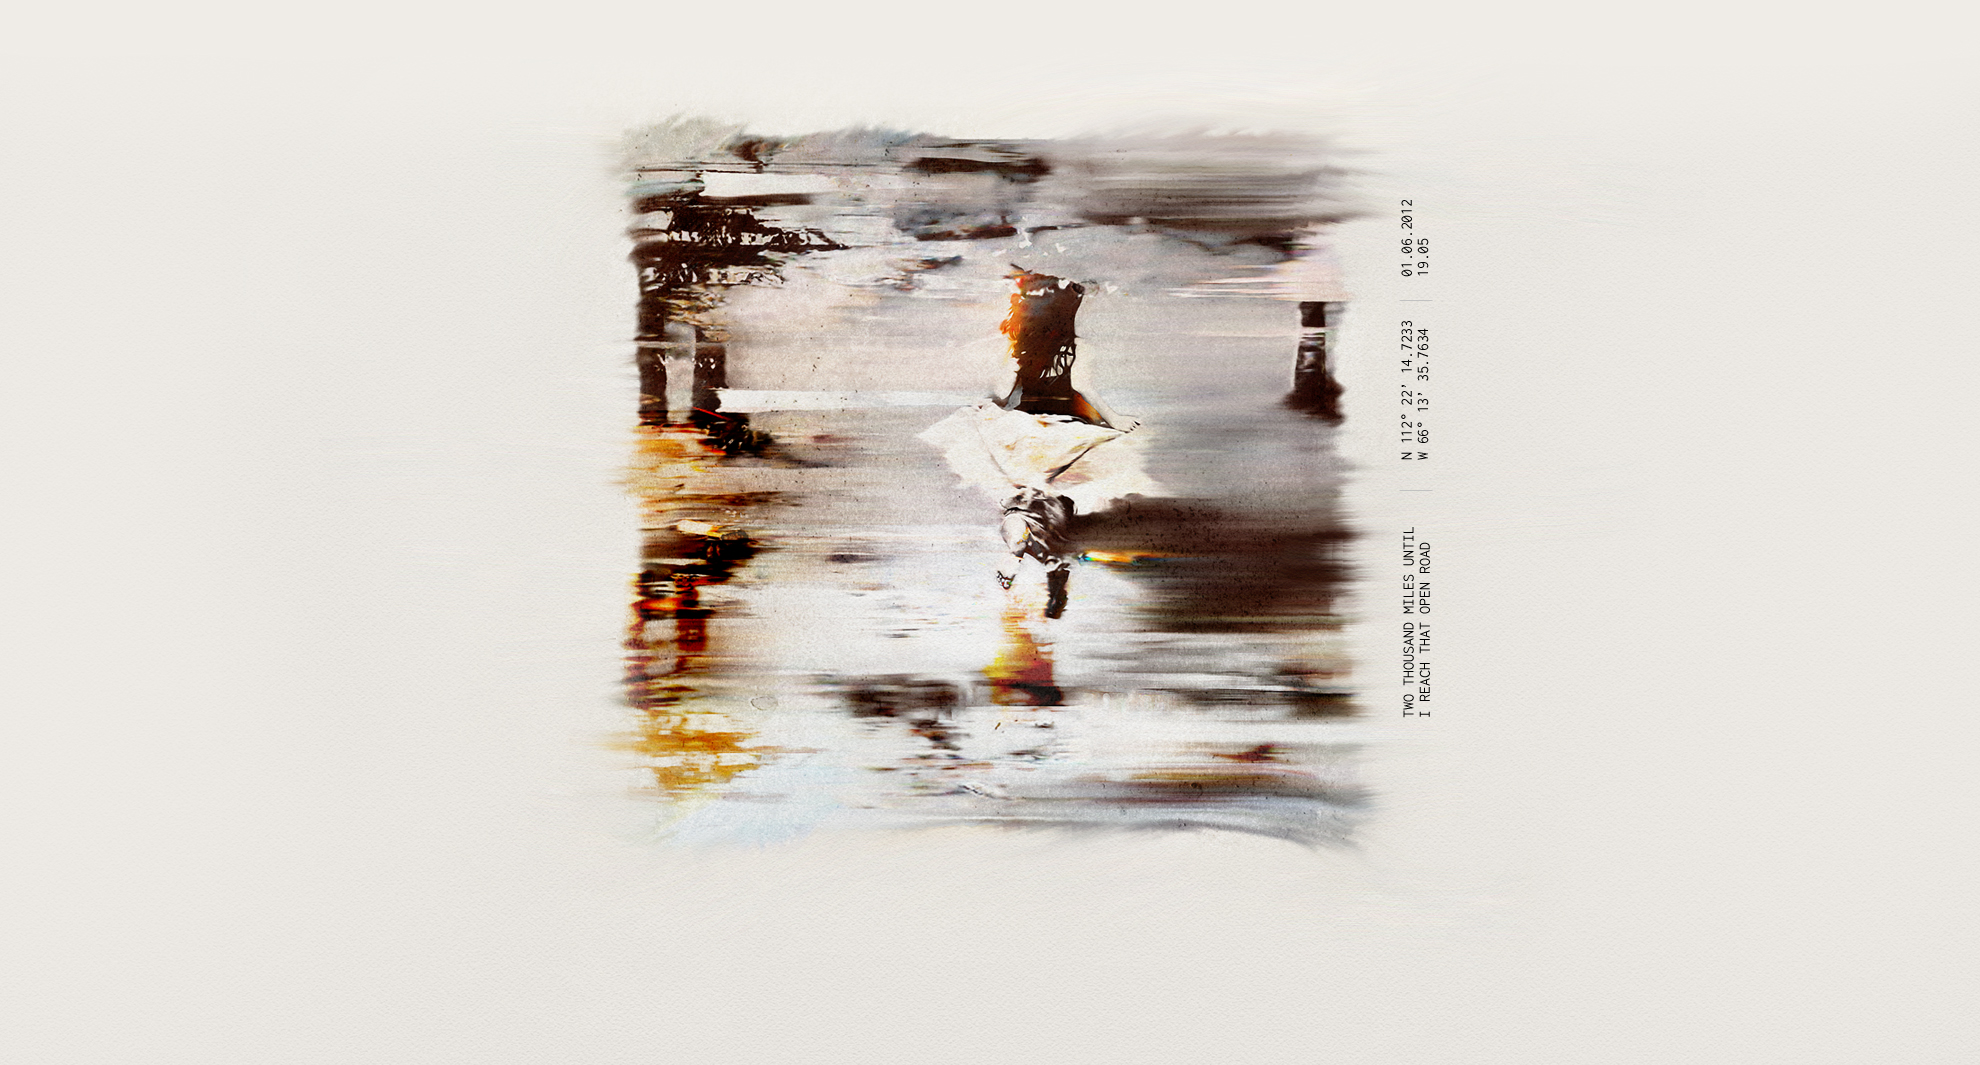
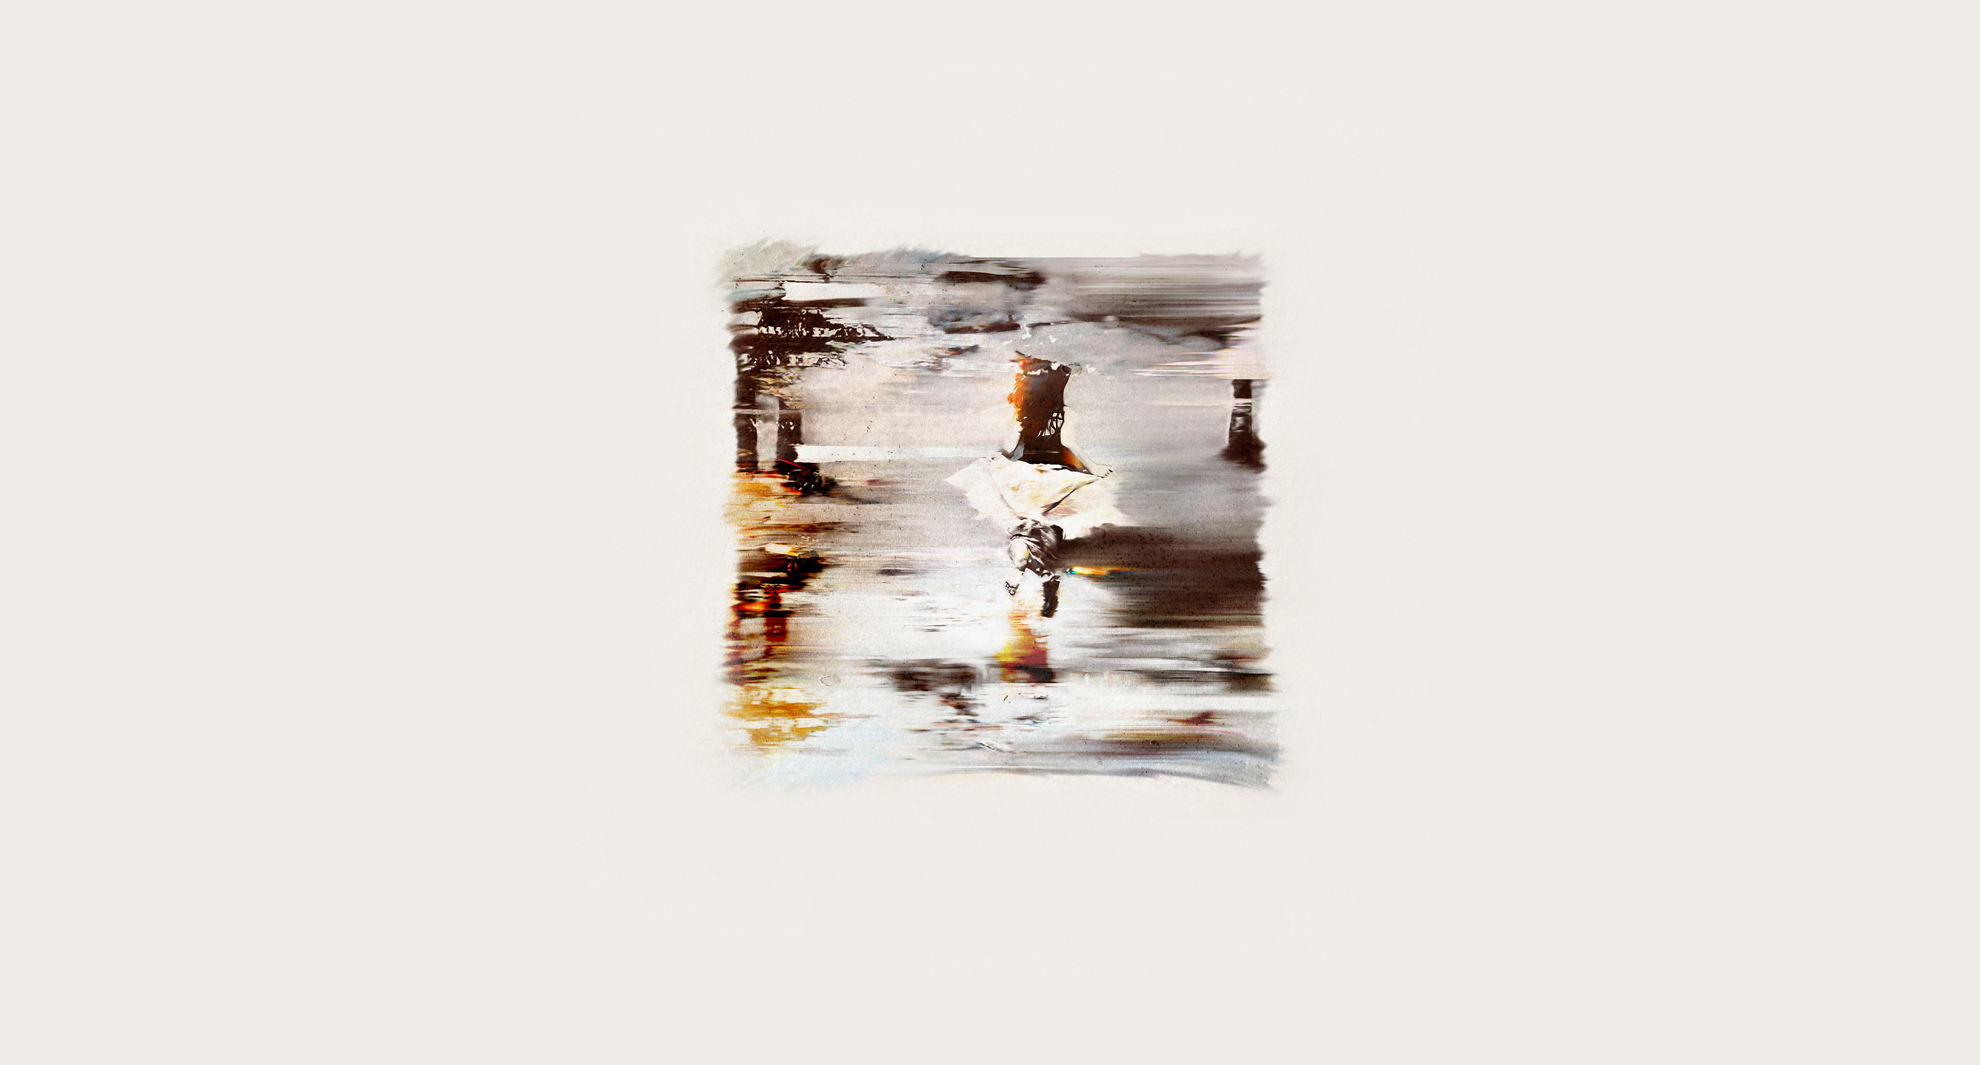
memories

diff --git a/_posts/2014-03-22-journeys.md b/_posts/2014-03-22-journeys.md
@@ -3,7 +3,7 @@ layout: portfolio_entry
 title: Memories
 subtitle: Trapped in Time
 project: journeys
-images: [{ src: 001.jpg, text: '#000', background: '#efece7' }, { src: 002.jpg, text: '#000', background: '#efece7' }, { src: 003.jpg, text: '#000', background: '#efece7'}]
+images: [{ src: 001.jpg, text: '#cbcbcb', background: '#efece7' }, { src: 002.jpg, text: '#cbcbcb', background: '#efece7' }, { src: 003.jpg, text: '#cbcbcb', background: '#efece7'}]
 ---
 Lorem ipsum dolor sit amet, consectetur adipiscing elit. Pellentesque facilisis leo risus. Ut lacinia lacinia tellus sit amet tincidunt.
 
